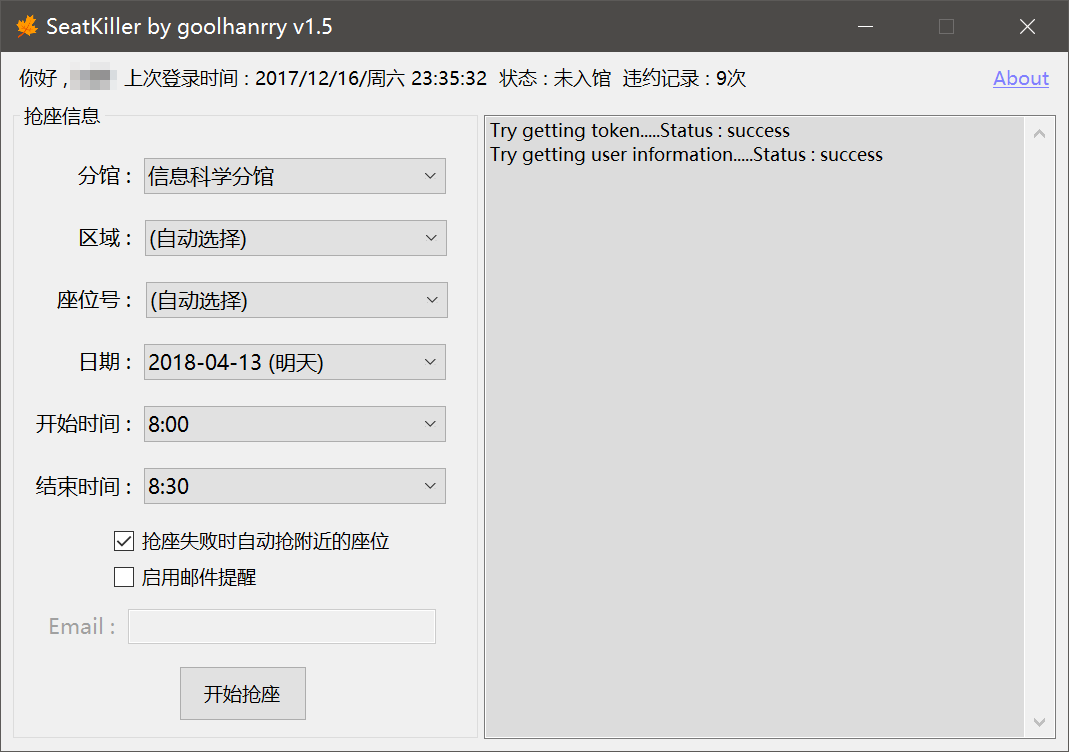
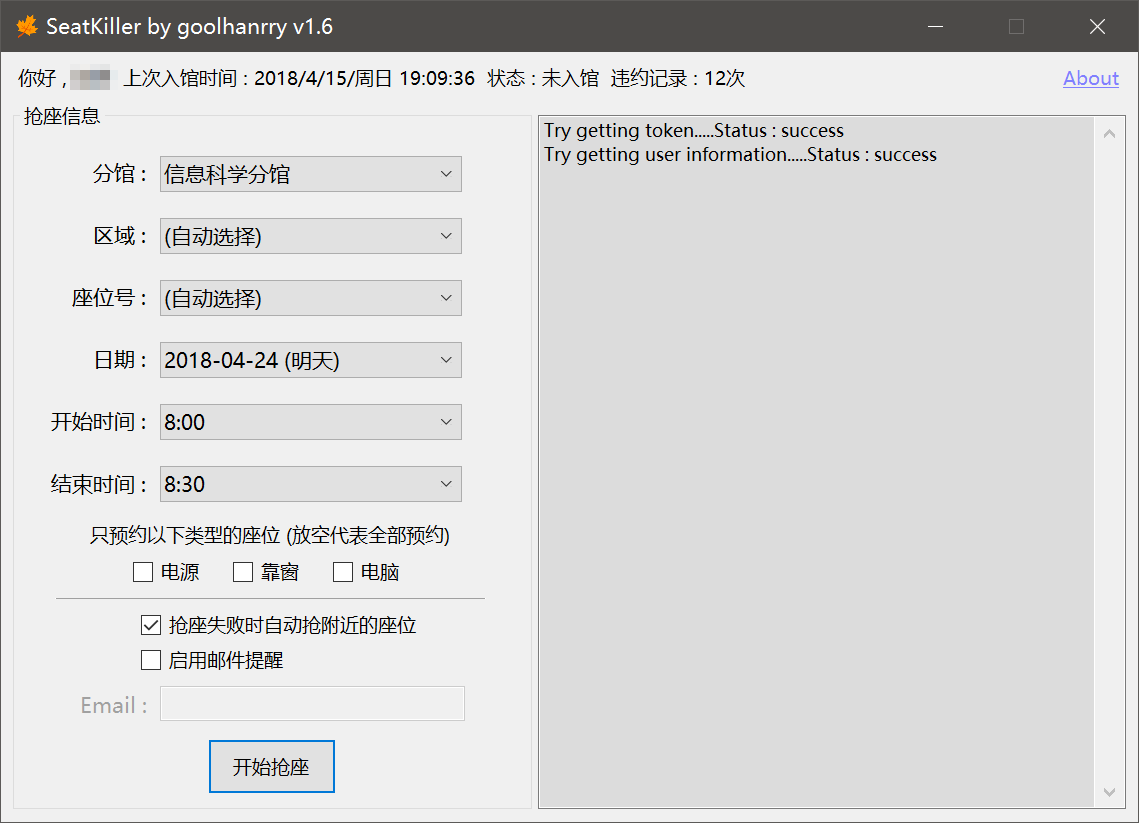
更换截图，优化显示内容

diff --git a/SeatKiller_UI/Config.Designer.cs b/SeatKiller_UI/Config.Designer.cs
@@ -32,6 +32,11 @@
             this.comboBox1 = new System.Windows.Forms.ComboBox();
             this.label1 = new System.Windows.Forms.Label();
             this.groupBox1 = new System.Windows.Forms.GroupBox();
+            this.label10 = new System.Windows.Forms.Label();
+            this.checkBox5 = new System.Windows.Forms.CheckBox();
+            this.checkBox4 = new System.Windows.Forms.CheckBox();
+            this.checkBox3 = new System.Windows.Forms.CheckBox();
+            this.label9 = new System.Windows.Forms.Label();
             this.label8 = new System.Windows.Forms.Label();
             this.comboBox6 = new System.Windows.Forms.ComboBox();
             this.textBox1 = new System.Windows.Forms.TextBox();
@@ -51,11 +56,6 @@
             this.linkLabel1 = new System.Windows.Forms.LinkLabel();
             this.textBox2 = new System.Windows.Forms.TextBox();
             this.backgroundWorker1 = new System.ComponentModel.BackgroundWorker();
-            this.label9 = new System.Windows.Forms.Label();
-            this.checkBox3 = new System.Windows.Forms.CheckBox();
-            this.checkBox4 = new System.Windows.Forms.CheckBox();
-            this.checkBox5 = new System.Windows.Forms.CheckBox();
-            this.label10 = new System.Windows.Forms.Label();
             this.groupBox1.SuspendLayout();
             this.SuspendLayout();
             // 
@@ -67,7 +67,7 @@
             this.comboBox1.Location = new System.Drawing.Point(147, 53);
             this.comboBox1.Name = "comboBox1";
             this.comboBox1.Size = new System.Drawing.Size(302, 36);
-            this.comboBox1.TabIndex = 0;
+            this.comboBox1.TabIndex = 1;
             this.comboBox1.SelectedIndexChanged += new System.EventHandler(this.comboBox1_SelectedIndexChanged);
             // 
             // label1
@@ -110,6 +110,54 @@
             this.groupBox1.TabStop = false;
             this.groupBox1.Text = "抢座信息";
             // 
+            // label10
+            // 
+            this.label10.BorderStyle = System.Windows.Forms.BorderStyle.Fixed3D;
+            this.label10.Location = new System.Drawing.Point(42, 495);
+            this.label10.Name = "label10";
+            this.label10.Size = new System.Drawing.Size(431, 1);
+            this.label10.TabIndex = 21;
+            // 
+            // checkBox5
+            // 
+            this.checkBox5.AutoSize = true;
+            this.checkBox5.Location = new System.Drawing.Point(320, 455);
+            this.checkBox5.Name = "checkBox5";
+            this.checkBox5.Size = new System.Drawing.Size(76, 29);
+            this.checkBox5.TabIndex = 9;
+            this.checkBox5.Text = "电脑";
+            this.checkBox5.UseVisualStyleBackColor = true;
+            // 
+            // checkBox4
+            // 
+            this.checkBox4.AutoSize = true;
+            this.checkBox4.Location = new System.Drawing.Point(220, 455);
+            this.checkBox4.Name = "checkBox4";
+            this.checkBox4.Size = new System.Drawing.Size(76, 29);
+            this.checkBox4.TabIndex = 8;
+            this.checkBox4.Text = "靠窗";
+            this.checkBox4.UseVisualStyleBackColor = true;
+            // 
+            // checkBox3
+            // 
+            this.checkBox3.AutoSize = true;
+            this.checkBox3.Location = new System.Drawing.Point(120, 455);
+            this.checkBox3.Name = "checkBox3";
+            this.checkBox3.Size = new System.Drawing.Size(76, 29);
+            this.checkBox3.TabIndex = 7;
+            this.checkBox3.Text = "电源";
+            this.checkBox3.UseVisualStyleBackColor = true;
+            // 
+            // label9
+            // 
+            this.label9.AutoSize = true;
+            this.label9.Font = new System.Drawing.Font("微软雅黑", 7.714286F, System.Drawing.FontStyle.Regular, System.Drawing.GraphicsUnit.Point, ((byte)(134)));
+            this.label9.Location = new System.Drawing.Point(72, 419);
+            this.label9.Name = "label9";
+            this.label9.Size = new System.Drawing.Size(372, 25);
+            this.label9.TabIndex = 17;
+            this.label9.Text = "只预约以下类型的座位 (放空代表全部预约)";
+            // 
             // label8
             // 
             this.label8.AutoSize = true;
@@ -128,7 +176,7 @@
             this.comboBox6.Location = new System.Drawing.Point(147, 177);
             this.comboBox6.Name = "comboBox6";
             this.comboBox6.Size = new System.Drawing.Size(302, 36);
-            this.comboBox6.TabIndex = 2;
+            this.comboBox6.TabIndex = 3;
             // 
             // textBox1
             // 
@@ -137,14 +185,14 @@
             this.textBox1.Location = new System.Drawing.Point(147, 583);
             this.textBox1.Name = "textBox1";
             this.textBox1.Size = new System.Drawing.Size(305, 35);
-            this.textBox1.TabIndex = 7;
+            this.textBox1.TabIndex = 12;
             // 
             // label7
             // 
             this.label7.AutoSize = true;
             this.label7.Enabled = false;
             this.label7.Font = new System.Drawing.Font("微软雅黑", 9F, System.Drawing.FontStyle.Regular, System.Drawing.GraphicsUnit.Point, ((byte)(134)));
-            this.label7.Location = new System.Drawing.Point(62, 589);
+            this.label7.Location = new System.Drawing.Point(62, 588);
             this.label7.Name = "label7";
             this.label7.Size = new System.Drawing.Size(79, 28);
             this.label7.TabIndex = 13;
@@ -156,7 +204,7 @@
             this.checkBox2.Location = new System.Drawing.Point(128, 543);
             this.checkBox2.Name = "checkBox2";
             this.checkBox2.Size = new System.Drawing.Size(152, 29);
-            this.checkBox2.TabIndex = 6;
+            this.checkBox2.TabIndex = 11;
             this.checkBox2.Text = "启用邮件提醒\r\n";
             this.checkBox2.UseVisualStyleBackColor = true;
             this.checkBox2.CheckedChanged += new System.EventHandler(this.checkBox2_CheckedChanged);
@@ -167,7 +215,7 @@
             this.checkBox1.Location = new System.Drawing.Point(128, 508);
             this.checkBox1.Name = "checkBox1";
             this.checkBox1.Size = new System.Drawing.Size(285, 29);
-            this.checkBox1.TabIndex = 5;
+            this.checkBox1.TabIndex = 10;
             this.checkBox1.Text = "抢座失败时自动抢附近的座位";
             this.checkBox1.UseVisualStyleBackColor = true;
             // 
@@ -176,7 +224,7 @@
             this.button1.Location = new System.Drawing.Point(195, 636);
             this.button1.Name = "button1";
             this.button1.Size = new System.Drawing.Size(128, 55);
-            this.button1.TabIndex = 8;
+            this.button1.TabIndex = 13;
             this.button1.Text = "开始抢座";
             this.button1.UseVisualStyleBackColor = true;
             this.button1.Click += new System.EventHandler(this.button1_Click);
@@ -189,7 +237,7 @@
             this.comboBox5.Location = new System.Drawing.Point(147, 363);
             this.comboBox5.Name = "comboBox5";
             this.comboBox5.Size = new System.Drawing.Size(302, 36);
-            this.comboBox5.TabIndex = 5;
+            this.comboBox5.TabIndex = 6;
             // 
             // comboBox4
             // 
@@ -199,7 +247,7 @@
             this.comboBox4.Location = new System.Drawing.Point(147, 301);
             this.comboBox4.Name = "comboBox4";
             this.comboBox4.Size = new System.Drawing.Size(302, 36);
-            this.comboBox4.TabIndex = 4;
+            this.comboBox4.TabIndex = 5;
             this.comboBox4.SelectedIndexChanged += new System.EventHandler(this.comboBox4_SelectedIndexChanged);
             // 
             // comboBox3
@@ -210,7 +258,7 @@
             this.comboBox3.Location = new System.Drawing.Point(147, 239);
             this.comboBox3.Name = "comboBox3";
             this.comboBox3.Size = new System.Drawing.Size(302, 36);
-            this.comboBox3.TabIndex = 3;
+            this.comboBox3.TabIndex = 4;
             // 
             // label6
             // 
@@ -250,7 +298,7 @@
             this.comboBox2.Location = new System.Drawing.Point(147, 115);
             this.comboBox2.Name = "comboBox2";
             this.comboBox2.Size = new System.Drawing.Size(302, 36);
-            this.comboBox2.TabIndex = 1;
+            this.comboBox2.TabIndex = 2;
             this.comboBox2.SelectedIndexChanged += new System.EventHandler(this.comboBox2_SelectedIndexChanged);
             // 
             // label3
@@ -305,56 +353,9 @@
             this.backgroundWorker1.WorkerSupportsCancellation = true;
             this.backgroundWorker1.DoWork += new System.ComponentModel.DoWorkEventHandler(this.backgroundWorker1_DoWork);
             // 
-            // label9
-            // 
-            this.label9.AutoSize = true;
-            this.label9.Font = new System.Drawing.Font("微软雅黑", 7.714286F, System.Drawing.FontStyle.Regular, System.Drawing.GraphicsUnit.Point, ((byte)(134)));
-            this.label9.Location = new System.Drawing.Point(72, 419);
-            this.label9.Name = "label9";
-            this.label9.Size = new System.Drawing.Size(372, 25);
-            this.label9.TabIndex = 17;
-            this.label9.Text = "只预约以下类型的座位 (放空代表全部预约)";
-            // 
-            // checkBox3
-            // 
-            this.checkBox3.AutoSize = true;
-            this.checkBox3.Location = new System.Drawing.Point(120, 455);
-            this.checkBox3.Name = "checkBox3";
-            this.checkBox3.Size = new System.Drawing.Size(76, 29);
-            this.checkBox3.TabIndex = 18;
-            this.checkBox3.Text = "电源";
-            this.checkBox3.UseVisualStyleBackColor = true;
-            // 
-            // checkBox4
-            // 
-            this.checkBox4.AutoSize = true;
-            this.checkBox4.Location = new System.Drawing.Point(220, 455);
-            this.checkBox4.Name = "checkBox4";
-            this.checkBox4.Size = new System.Drawing.Size(76, 29);
-            this.checkBox4.TabIndex = 19;
-            this.checkBox4.Text = "靠窗";
-            this.checkBox4.UseVisualStyleBackColor = true;
-            // 
-            // checkBox5
-            // 
-            this.checkBox5.AutoSize = true;
-            this.checkBox5.Location = new System.Drawing.Point(320, 455);
-            this.checkBox5.Name = "checkBox5";
-            this.checkBox5.Size = new System.Drawing.Size(76, 29);
-            this.checkBox5.TabIndex = 20;
-            this.checkBox5.Text = "电脑";
-            this.checkBox5.UseVisualStyleBackColor = true;
-            // 
-            // label10
-            // 
-            this.label10.BorderStyle = System.Windows.Forms.BorderStyle.Fixed3D;
-            this.label10.Location = new System.Drawing.Point(42, 495);
-            this.label10.Name = "label10";
-            this.label10.Size = new System.Drawing.Size(431, 1);
-            this.label10.TabIndex = 21;
-            // 
             // Config
             // 
+            this.AcceptButton = this.button1;
             this.AutoScaleDimensions = new System.Drawing.SizeF(168F, 168F);
             this.AutoScaleMode = System.Windows.Forms.AutoScaleMode.Dpi;
             this.AutoSize = true;

diff --git a/SeatKiller_UI/Login.Designer.cs b/SeatKiller_UI/Login.Designer.cs
@@ -56,7 +56,7 @@
             // 
             this.label1.AutoSize = true;
             this.label1.Font = new System.Drawing.Font("微软雅黑", 10.71429F, System.Drawing.FontStyle.Regular, System.Drawing.GraphicsUnit.Point, ((byte)(134)));
-            this.label1.Location = new System.Drawing.Point(122, 164);
+            this.label1.Location = new System.Drawing.Point(123, 164);
             this.label1.Name = "label1";
             this.label1.Size = new System.Drawing.Size(81, 35);
             this.label1.TabIndex = 2;
@@ -66,7 +66,7 @@
             // 
             this.label2.AutoSize = true;
             this.label2.Font = new System.Drawing.Font("微软雅黑", 10.71429F, System.Drawing.FontStyle.Regular, System.Drawing.GraphicsUnit.Point, ((byte)(0)));
-            this.label2.Location = new System.Drawing.Point(122, 223);
+            this.label2.Location = new System.Drawing.Point(123, 223);
             this.label2.Name = "label2";
             this.label2.Size = new System.Drawing.Size(81, 35);
             this.label2.TabIndex = 3;
@@ -76,7 +76,7 @@
             // 
             this.label3.AutoSize = true;
             this.label3.Font = new System.Drawing.Font("微软雅黑", 7.714286F, System.Drawing.FontStyle.Regular, System.Drawing.GraphicsUnit.Point, ((byte)(0)));
-            this.label3.Location = new System.Drawing.Point(3, 414);
+            this.label3.Location = new System.Drawing.Point(3, 413);
             this.label3.Name = "label3";
             this.label3.Size = new System.Drawing.Size(213, 25);
             this.label3.TabIndex = 4;
@@ -86,7 +86,7 @@
             // 
             this.label4.AutoSize = true;
             this.label4.Font = new System.Drawing.Font("Calibri", 7.714286F, System.Drawing.FontStyle.Regular, System.Drawing.GraphicsUnit.Point, ((byte)(0)));
-            this.label4.Location = new System.Drawing.Point(209, 416);
+            this.label4.Location = new System.Drawing.Point(209, 415);
             this.label4.Name = "label4";
             this.label4.Size = new System.Drawing.Size(85, 23);
             this.label4.TabIndex = 5;
@@ -148,7 +148,7 @@
             this.AcceptButton = this.button1;
             this.AutoScaleDimensions = new System.Drawing.SizeF(168F, 168F);
             this.AutoScaleMode = System.Windows.Forms.AutoScaleMode.Dpi;
-            this.ClientSize = new System.Drawing.Size(611, 446);
+            this.ClientSize = new System.Drawing.Size(611, 445);
             this.Controls.Add(this.comboBox1);
             this.Controls.Add(this.pictureBox1);
             this.Controls.Add(this.checkBox1);

diff --git a/SeatKiller_UI/SeatKiller.cs b/SeatKiller_UI/SeatKiller.cs
@@ -608,7 +608,7 @@ namespace SeatKiller_UI
 
         public static void PrintBookInf(JObject jObject)
         {
-            Config.config.textBox2.AppendText("\r\n--------------------------座位预约成功--------------------------");
+            Config.config.textBox2.AppendText("\r\n---------------------------座位预约成功---------------------------");
             Config.config.textBox2.AppendText("\r\nID：" + jObject["data"]["id"]);
             Config.config.textBox2.AppendText("\r\n凭证号码：" + jObject["data"]["receipt"]);
             Config.config.textBox2.AppendText("\r\n时间：" + jObject["data"]["onDate"] + " " + jObject["data"]["begin"] + "~" + jObject["data"]["end"]);
@@ -617,7 +617,7 @@ namespace SeatKiller_UI
             else
                 Config.config.textBox2.AppendText("\r\n状态：已签到");
             Config.config.textBox2.AppendText("\r\n地址：" + jObject["data"]["location"]);
-            Config.config.textBox2.AppendText("\r\n------------------------------------------------------------------");
+            Config.config.textBox2.AppendText("\r\n--------------------------------------------------------------------");
         }
 
         public static void SendMail(string json, string to_addr)

diff --git a/SeatKiller_UI/Config.cs b/SeatKiller_UI/Config.cs
@@ -22,7 +22,7 @@ namespace SeatKiller_UI
             textBox2.AppendText("Try getting token.....Status : success");
 
             SeatKiller.GetUsrInf();
-            label1.Text = "你好 , " + SeatKiller.name + "  上次登录时间 : " + SeatKiller.last_login_time + "  状态 : " + SeatKiller.state + "  违约记录 : " + SeatKiller.violationCount + "次";
+            label1.Text = "你好 , " + SeatKiller.name + "  上次入馆时间 : " + SeatKiller.last_login_time + "  状态 : " + SeatKiller.state + "  违约记录 : " + SeatKiller.violationCount + "次";
             checkBox1.Checked = true;
 
             ArrayList building_list = new ArrayList();
